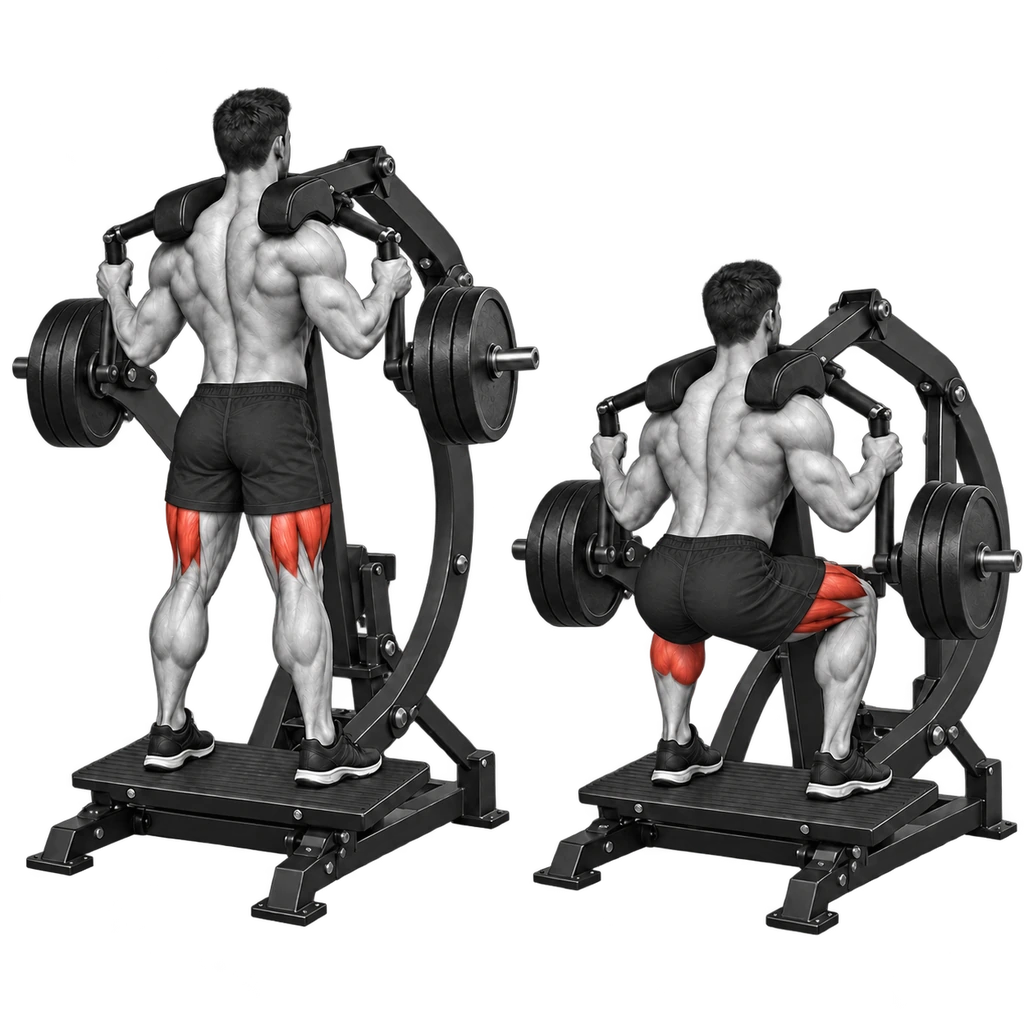
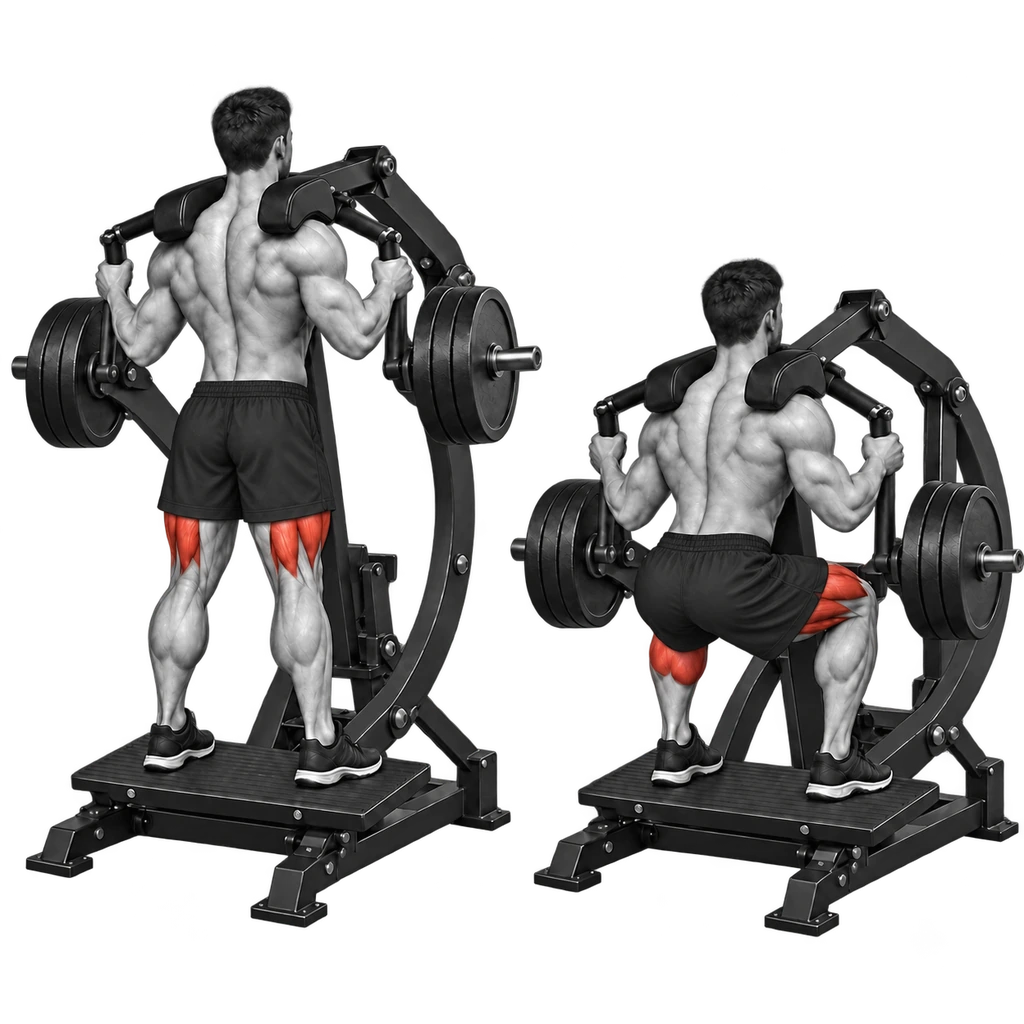
Clarify shorts in Super Squat illustration

diff --git a/docs/media-provenance.md b/docs/media-provenance.md
@@ -339,9 +339,9 @@ Three original AI-assisted illustrations added for Dumbbell Reverse Lunge, Cable
 
 ## Plate-Loaded Super Squat Press illustration correction
 
[2 lines of base64/hex data omitted]
 - **Date and creator:** 2026-10-22; Open Exercise Atlas, using the built-in OpenAI image generator. The tool did not expose a model identifier.
-- **Method:** Edited the existing original two-pose illustration, preserving the machine, pose, muscle highlights, grayscale style, and transparent background. The 1254 × 1254 RGBA PNG was resized to 1024 × 1024 and converted to WebP with Pillow/libwebp (quality 92, alpha retained). Opaque black shorts now clearly cover both athletes' hips, buttocks, and groin; highlighted quadriceps remain visible below the shorts.
+- **Method:** Edited the existing original two-pose illustration, preserving the machine, pose, muscle highlights, grayscale style, and transparent background. The 1254 × 1254 RGBA PNG was resized to 1024 × 1024 and converted to WebP with Pillow/libwebp (quality 92, alpha retained). After user feedback that the close-cut shorts could read as bare, they were replaced with visibly loose, opaque black athletic shorts with clear leg hems, fully covering both athletes' hips, buttocks, and groin; highlighted quadriceps remain visible below the shorts.
 - **Source and rights:** This is an edit of Atlas's existing original AI-assisted illustration; no third-party artwork was imported. The project dedicates any rights it holds in this original illustration under [CC0 1.0](https://creativecommons.org/publicdomain/zero/1.0/). [OpenAI Terms of Use](https://openai.com/policies/terms-of-use/) assign output to the user to the extent permitted by applicable law; outputs may not be unique, and no exclusivity is claimed. Generated media is not expert technique approval.
 - **Record:** [`plate-loaded-super-squat-press.json`](../data/exercises/plate-loaded-super-squat-press.json).
 

diff --git a/docs/pilots/major-muscle-gap-2026-10-22.md b/docs/pilots/major-muscle-gap-2026-10-22.md
@@ -126,9 +126,9 @@ The ten-record follow-up and twenty later priority-movement records use Atlas's 
 
 ## Plate-Loaded Super Squat Press illustration correction
 
[2 lines of base64/hex data omitted]
 - **Date and creator:** 2026-10-22; Open Exercise Atlas, using the built-in OpenAI image generator. The tool did not expose a model identifier.
-- **Method:** Edited the existing original two-pose illustration, preserving the machine, pose, muscle highlights, grayscale style, and transparent background. The 1254 × 1254 RGBA PNG was resized to 1024 × 1024 and converted to WebP with Pillow/libwebp (quality 92, alpha retained). Opaque black shorts now clearly cover both athletes' hips, buttocks, and groin; highlighted quadriceps remain visible below the shorts.
+- **Method:** Edited the existing original two-pose illustration, preserving the machine, pose, muscle highlights, grayscale style, and transparent background. The 1254 × 1254 RGBA PNG was resized to 1024 × 1024 and converted to WebP with Pillow/libwebp (quality 92, alpha retained). After user feedback that the close-cut shorts could read as bare, they were replaced with visibly loose, opaque black athletic shorts with clear leg hems, fully covering both athletes' hips, buttocks, and groin; highlighted quadriceps remain visible below the shorts.
 - **Source and rights:** This is an edit of Atlas's existing original AI-assisted illustration; no third-party artwork was imported. The project dedicates any rights it holds in this original illustration under [CC0 1.0](https://creativecommons.org/publicdomain/zero/1.0/). [OpenAI Terms of Use](https://openai.com/policies/terms-of-use/) assign output to the user to the extent permitted by applicable law; outputs may not be unique, and no exclusivity is claimed. Generated media is not expert technique approval.
 - **Record:** [`plate-loaded-super-squat-press.json`](../data/exercises/plate-loaded-super-squat-press.json).
 
